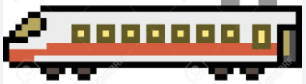
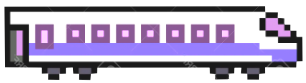
sef3

diff --git a/Line Up-1/train.java b/Line Up-1/train.java
@@ -15,11 +15,11 @@ import javax.swing.JComponent;
  * @author (your name)
  * @version (a version number or a date)
  */
-public class train extends JComponent 
+public class train extends JComponent implements Runnable 
 {
     private BufferedImage trainCar;
-    private int x, y, randomGraphX, randomGraphY;
-    private int moving = 0;
+    private int x, y;
+    private int running = 0;
     
     Random generator = new Random();
     
@@ -30,16 +30,45 @@ public class train extends JComponent
     {
         x = 100;
         y = 100;
-        try {
-            trainCar = ImageIO.read(newFile("trainCar.PNG"));
+        try 
+        {
+            trainCar = ImageIO.read(new File("trainCar.PNG"));
         }
         catch (IOException e) {}
         
     }
     public void draw (Graphics2D page)
     {
-        page.drawImage(trainCar, 30, 48, null);
+        page.drawImage(trainCar, 0, 325, null);
         
+    }
+    
+    /* public void run()
+    {
+        int moving = 0;
+        while (true)
+        {
+            if running 
+        }
+    }
+    */
+   
+   public void run()
+   {
+       while(true)
+       { 
+            if(running % 2 == 0)
+                x +=20;
+            else
+                x -= 20;
+            running ++;
+                try{
+                Thread.sleep(17);
+            }catch (Exception e){}
+            
+            System.out.print(x+"-----------------");
+            //repaint();
+        }
     }
     
 }

diff --git a/Line Up-1/foreground.java b/Line Up-1/foreground.java
@@ -17,6 +17,7 @@ public class foreground extends JComponent //implements Runnable
    private lake lake1;
    private sky background;
    private subway subway1;
+   private train train1;
    private int running = 0;
 
    //-----------------------------------------------------------------
@@ -43,6 +44,10 @@ public class foreground extends JComponent //implements Runnable
       lake1 = new lake();
       subway1 = new subway();
       background = new sky();
+      train1 = new train();
+      
+      Thread t1 = new Thread(train1);
+      t1.start();
       //animates it
       //Thread t1 = new Thread(ground);
       //t1.start();
@@ -80,6 +85,7 @@ public class foreground extends JComponent //implements Runnable
       tower3.draw (page);
       lake1.draw(page); 
       subway1.draw(page);
+      train1.draw(page);
 
       //ground.draw(page);
 

diff --git a/Line Up-1/subway.java b/Line Up-1/subway.java
@@ -27,18 +27,6 @@ public class subway extends JComponent implements Runnable
         h = 75;
     }
 
-    @Override
-    public void paintComponent(Graphics g) //required
-    {
-        Graphics2D g2 = (Graphics2D) g;
-        
-        // invoke the draw method 
-        // ...
-        draw(g2);
-        
-        
-    }
-    
     /**
      * Animate the cityscape by updating the objects such that they appear to be animated when
      *      they are next drawn.

diff --git a/Line Up-1/__SHELL1.java b/Line Up-1/__SHELL1.java
@@ -1,0 +1,8 @@
+
+public class __SHELL1 extends bluej.runtime.Shell {
+public static void run() throws Throwable {
+
+java.lang.String[] __bluej_param0 = { };
+CyberpunkViewer.main(__bluej_param0);
+
+}}
